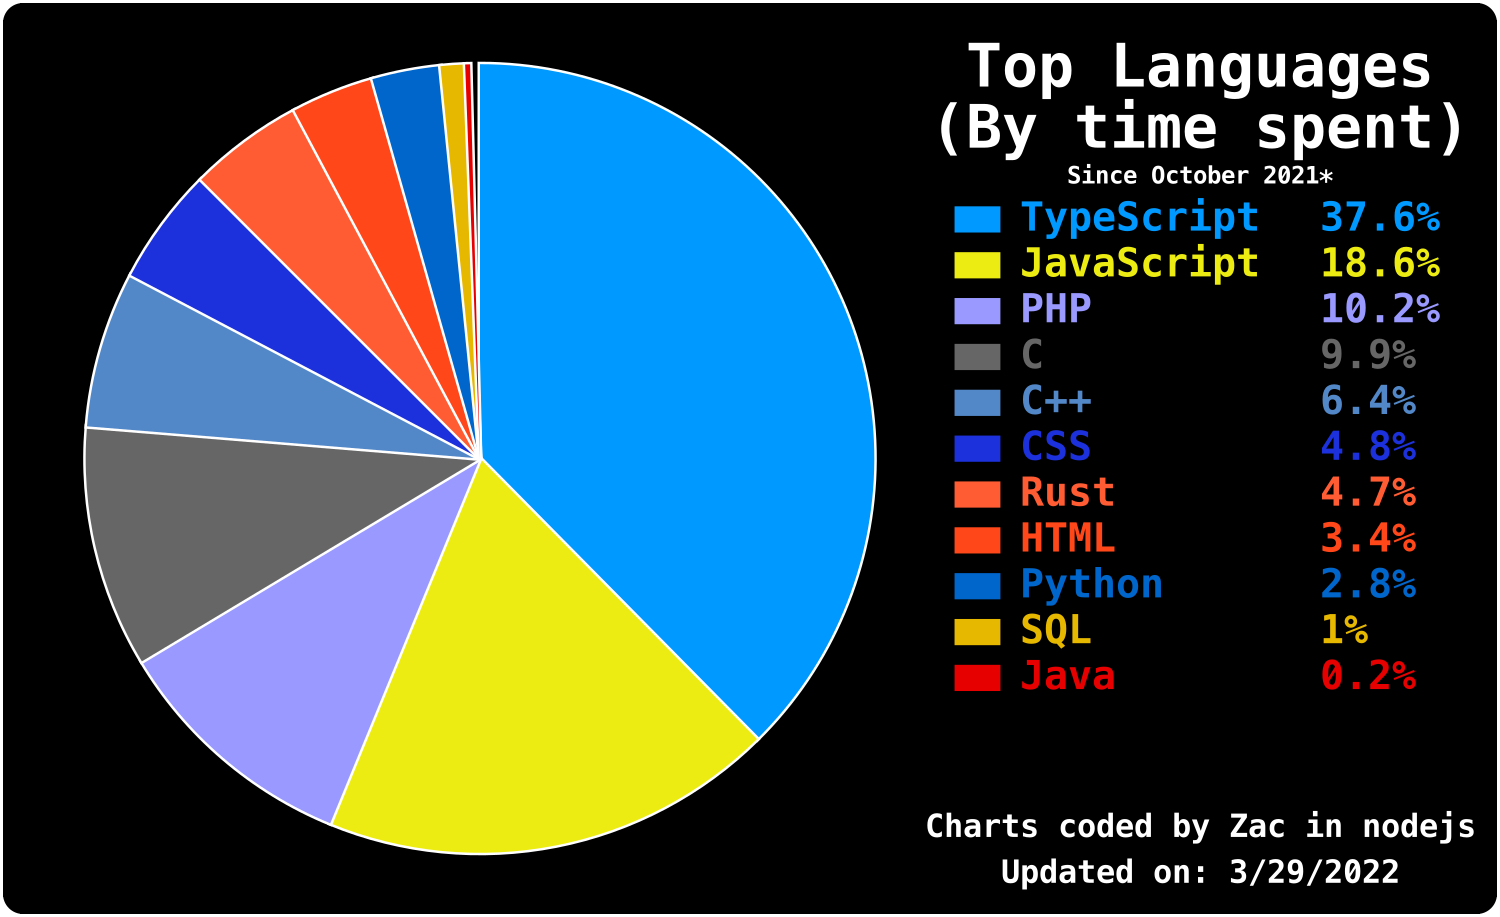
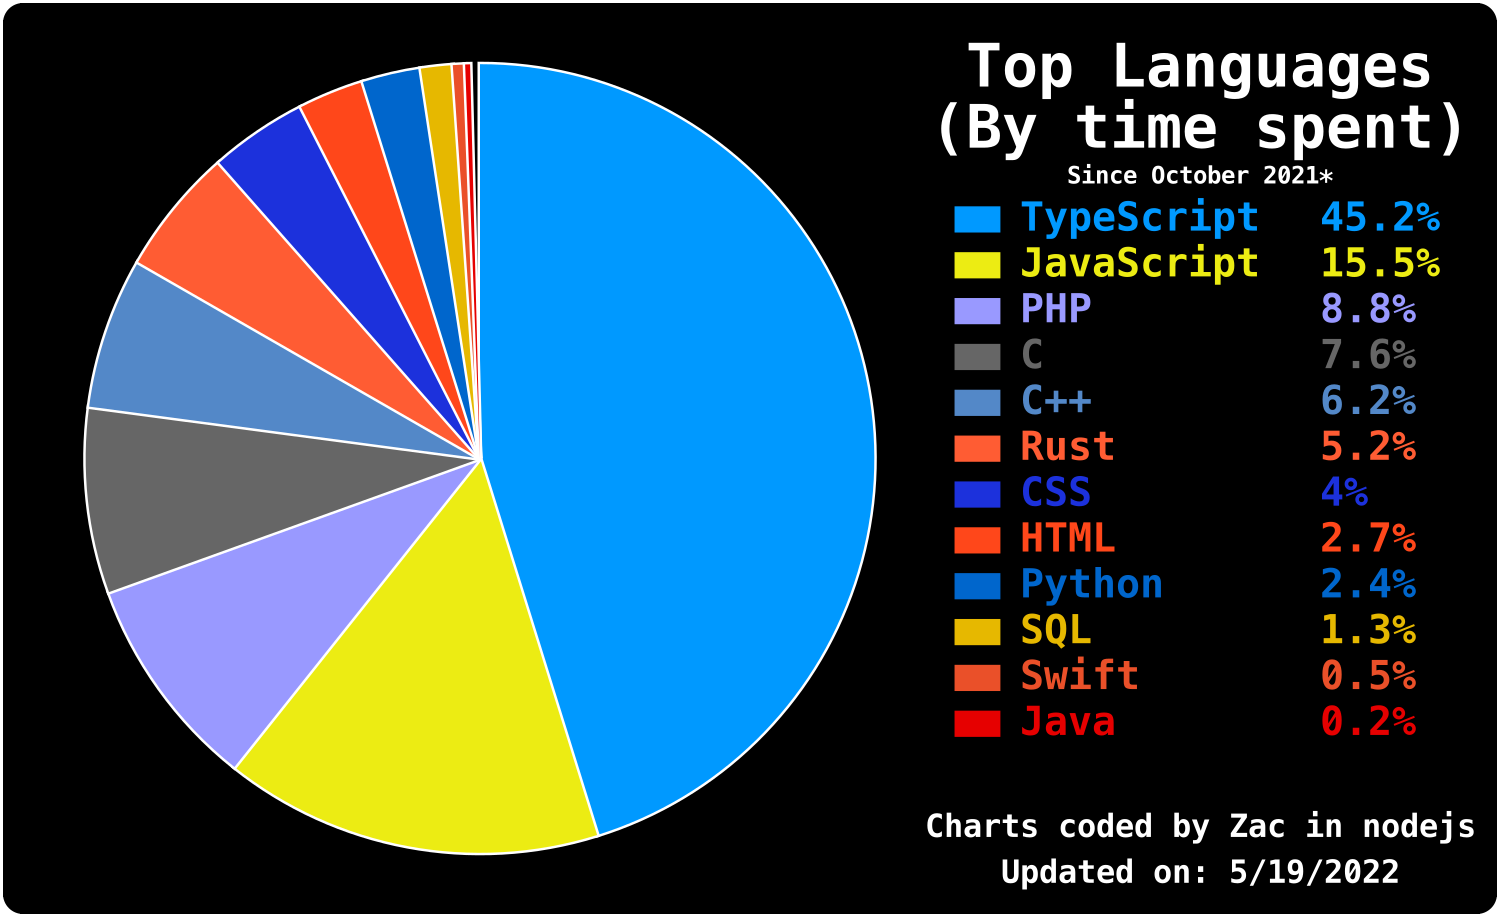
Swift

diff --git a/src/parseLanguages.ts b/src/parseLanguages.ts
@@ -75,6 +75,7 @@ const writeLanguages = async () => {
 						case "C++": colour = "rgb(83, 136, 200)"; break;
 						case "VHDL": colour = "grey"; break;
 						case "Go": colour = "rgb(20, 156, 206)"; break;
+						case "Swift": colour = "rgb(234, 80, 41)"; break;
 						default: colour = "white"; break;
 					}
 					languages.push({name:name, colour: colour, time:time, percent:0});
